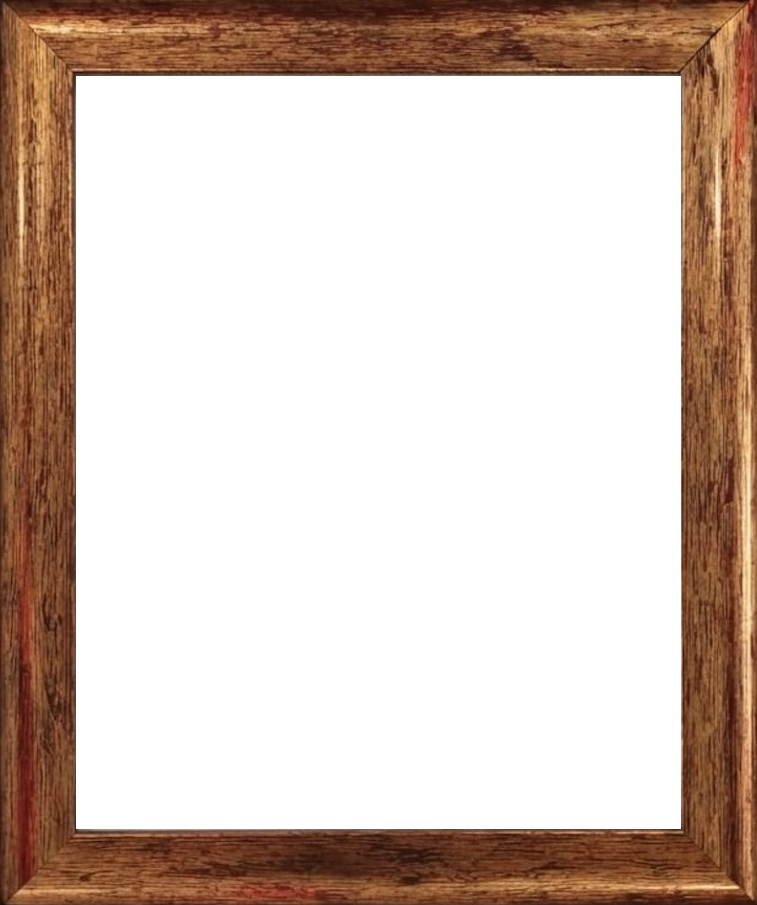
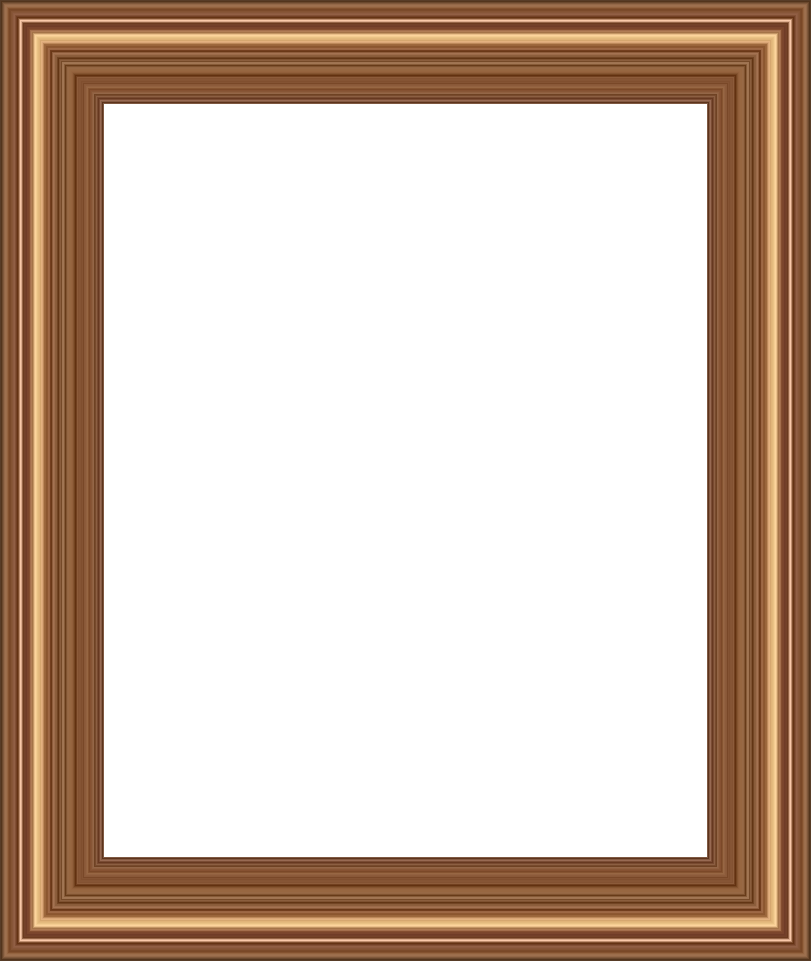
Eskitme Altın dört kenarını sağ kol profiline eşitle.
Üst/alt ve köşeler fotoğraf ışığında ezilmesin diye aynı oluk ve iç dudağı dört raya bas; katalog kalınlığını gerçek 104px'e çek.

diff --git a/scripts/add-frame.py b/scripts/add-frame.py
@@ -2471,10 +2471,78 @@ def complete_dark_outer_rim(img: Image.Image, dark_br: float = 58, max_depth: in
     return out
 
 
+def mirror_left_rail_from_right(img: Image.Image) -> Image.Image:
+    """Sol rayı sağ profilin yatay aynasıyla değiştir; dört kenar aynı kalınlık."""
+    w, h = img.size
+    px = img.load()
+    il, it, ir, ib = _hole_bounds(px, w, h)
+    if ir <= il or ib <= it:
+        return img
+    left, right = il, w - 1 - ir
+    if right < 40:
+        return img
+    shift = right - left
+    new_w = w + shift
+    canvas = Image.new("RGBA", (new_w, h), (0, 0, 0, 0))
+    if shift >= 0:
+        canvas.paste(img, (shift, 0))
+    else:
+        canvas.paste(img.crop((-shift, 0, w, h)), (0, 0))
+    right_strip = img.crop((w - right, 0, w, h)).transpose(Image.FLIP_LEFT_RIGHT)
+    canvas.paste(right_strip, (0, 0))
+    return canvas
+
+
+def rebuild_horizontal_rails_from_right(img: Image.Image) -> Image.Image:
+    """Dört rayı sağ kolun parlak oluk + koyu iç dudak profilinden eşit bas."""
+    w, h = img.size
+    px = img.load()
+    il, it, ir, ib = _hole_bounds(px, w, h)
+    if ir <= il or ib <= it:
+        return img
+    left, top, right, bottom = il, it, w - 1 - ir, h - 1 - ib
+    t = right
+    if t < 40 or min(left, top, bottom) < 40:
+        return img
+
+    scoop_d = min(20, t - 1)
+    y0, y1 = top + 8, h - bottom - 8
+    best_y, best = (y0 + y1) // 2, -1e9
+    found = False
+    for y in range(y0, y1):
+        scoop = sum(px[w - 1 - scoop_d, y][:3]) / 3
+        inner = sum(px[w - t, y][:3]) / 3
+        if scoop < 165:
+            continue
+        score = scoop - 1.5 * inner
+        if score > best:
+            best, best_y, found = score, y, True
+    if not found:
+        best = -1.0
+        for y in range(y0, y1):
+            scoop = sum(px[w - 1 - scoop_d, y][:3]) / 3
+            if scoop > best:
+                best, best_y = scoop, y
+
+    profile = [px[w - 1 - d, best_y] for d in range(t)]
+    out = img.copy()
+    opx = out.load()
+    for y in range(h):
+        for x in range(w):
+            if left <= x <= ir and top <= y <= ib:
+                continue
+            d = min(y, h - 1 - y, x, w - 1 - x)
+            if d < t:
+                opx[x, y] = profile[d]
+    return out
+
+
 def _postprocess_named_frame(img: Image.Image, dest_name: str) -> Image.Image:
     haze_kind = STUDIO_INNER_HAZE.get(dest_name)
     if dest_name in STUDIO_EQUALIZE_INWARD:
         equalize = "inner"
+    elif dest_name in STUDIO_EQUALIZE_NONE:
+        equalize = "none"
     else:
         equalize = "outer"
     if haze_kind:
@@ -2482,6 +2550,9 @@ def _postprocess_named_frame(img: Image.Image, dest_name: str) -> Image.Image:
     extra = STUDIO_EXTRA_INWARD.get(dest_name)
     if extra:
         img = expand_hole_inward(img, *extra, equalize=equalize)
+    if dest_name in STUDIO_MIRROR_LEFT_FROM_RIGHT:
+        img = mirror_left_rail_from_right(img)
+        img = rebuild_horizontal_rails_from_right(img)
     if dest_name in STUDIO_GREY_OUTER:
         img = peel_neutral_outer_haze(img)
         img = expand_hole_inward(img, 0, 0, 0, 0, equalize="inner")
@@ -2521,6 +2592,14 @@ STUDIO_EQUALIZE_INWARD: set[str] = {
     "34-l-bronz.png",
 }
 
+STUDIO_EQUALIZE_NONE: set[str] = {
+    "34-l-eskitme-altin.png",
+}
+
+STUDIO_MIRROR_LEFT_FROM_RIGHT: set[str] = {
+    "34-l-eskitme-altin.png",
+}
+
 STUDIO_GREY_OUTER: set[str] = {
     "34-l-bronz.png",
 }
@@ -2541,9 +2620,7 @@ STUDIO_DARK_OUTER_RIM: set[str] = {
 }
 
 # T, R, B, L extra hole expand after haze (kalan krem şerit).
-STUDIO_EXTRA_INWARD: dict[str, tuple[int, int, int, int]] = {
-    "34-l-eskitme-altin.png": (0, 0, 0, 2),
-}
+STUDIO_EXTRA_INWARD: dict[str, tuple[int, int, int, int]] = {}
 
 
 def _studio_extract_usable(img: Image.Image) -> bool:
